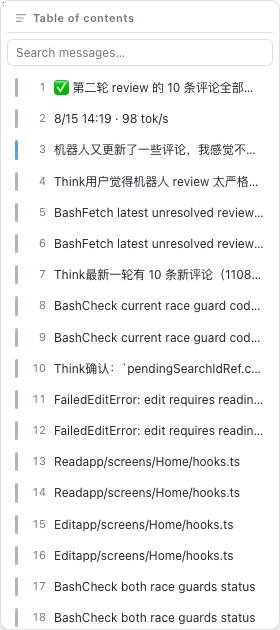
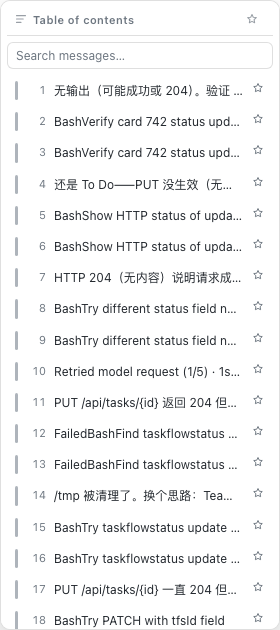
feat: message bookmarks; docs zh/en/es
- star/bookmark messages in outline, persisted in localStorage
- starred-only filter toggle in outline header
- README zh/en/es: document bookmarks; add Feedback section

diff --git a/src/client/TocBar.tsx b/src/client/TocBar.tsx
@@ -71,6 +71,14 @@ const STYLE = `
   border-radius:6px; outline:none; }
 .dsh-toc-search:focus { border-color:var(--toc-accent); }
 .dsh-toc-search::placeholder { color:var(--toc-muted); }
+.dsh-toc-star-toggle { display:inline-flex; align-items:center; gap:2px; padding:2px 5px; border:none;
+  background:transparent; color:var(--toc-muted); cursor:pointer; font-size:11px; border-radius:5px; }
+.dsh-toc-star-toggle:hover { background:var(--toc-hover); }
+.dsh-toc-star-toggle.active { color:var(--toc-accent); }
+.dsh-toc-star { flex:none; padding:1px; border:none; background:transparent; color:var(--toc-muted);
+  cursor:pointer; border-radius:4px; line-height:0; }
+.dsh-toc-star:hover { background:var(--toc-hover); }
+.dsh-toc-star.on { color:var(--toc-accent); }
 `
 
 let styleInjected = false
@@ -96,7 +104,33 @@ export function TocBar(props: { scrollEl: HTMLElement; items: TocItem[] }): Reac
   const [rect, setRect] = useState({ right: 0, top: 0, height: 0 })
   const [open, setOpen] = useState(false)
   const [query, setQuery] = useState('')
+  // 收藏：消息 key 集合（localStorage 持久化）。
+  const [starred, setStarred] = useState<Set<string>>(() => {
+    try {
+      const raw = window.localStorage.getItem('dsh-toc-starred')
+      return raw !== null ? new Set(JSON.parse(raw) as string[]) : new Set()
+    } catch {
+      return new Set()
+    }
+  })
+  // 过滤模式：全部 / 仅收藏。
+  const [starOnly, setStarOnly] = useState(false)
   const closeTimer = useRef(0)
+
+  /** 切换某条消息的收藏状态。 */
+  const toggleStar = useCallback((key: string): void => {
+    setStarred((prev) => {
+      const next = new Set(prev)
+      if (next.has(key)) next.delete(key)
+      else next.add(key)
+      try {
+        window.localStorage.setItem('dsh-toc-starred', JSON.stringify([...next]))
+      } catch {
+        /* 忽略 */
+      }
+      return next
+    })
+  }, [])
 
   // 跟踪定位：目录条停靠在 git 面板折叠箭头的左侧（聊天区内侧）；
   // 无箭头时回退到滚动容器右缘外侧。
@@ -177,12 +211,13 @@ export function TocBar(props: { scrollEl: HTMLElement; items: TocItem[] }): Reac
     }))
   }, [items, rect.height])
 
-  // 搜索过滤：按摘要文本包含匹配（大小写不敏感）。
+  // 搜索 + 收藏过滤：先按收藏，再按摘要文本包含匹配（大小写不敏感）。
   const filtered = useMemo(() => {
     const q = query.trim().toLowerCase()
-    if (q === '') return items
-    return items.filter((item) => item.text.toLowerCase().includes(q) || item.key.toLowerCase().includes(q))
-  }, [items, query])
+    const base = starOnly ? items.filter((item) => starred.has(item.key)) : items
+    if (q === '') return base
+    return base.filter((item) => item.text.toLowerCase().includes(q) || item.key.toLowerCase().includes(q))
+  }, [items, query, starred, starOnly])
 
   ensureStyle()
   if (rect.height === 0) return <div className="dsh-toc" style={{ display: 'none' }} />
@@ -213,11 +248,22 @@ export function TocBar(props: { scrollEl: HTMLElement; items: TocItem[] }): Reac
               <path d="M2 3.5h12M2 8h9M2 12.5h6" />
             </svg>
             {t('toc.title')}
+            <span className="spacer" style={{ flex: 1 }} />
+            <button type="button" className={`dsh-toc-star-toggle${starOnly ? ' active' : ''}`}
+              title={t('toc.starOnly')} onClick={() => setStarOnly((v) => !v)}>
+              <svg viewBox="0 0 16 16" width="12" height="12" fill={starOnly ? 'currentColor' : 'none'}
+                stroke="currentColor" strokeWidth="1.4" strokeLinejoin="round" aria-hidden="true">
+                <path d="M8 2l1.7 3.6 4 .5-2.9 2.8.7 4L8 11.2 4.5 12.9l.7-4L2.3 6.1l4-.5z" />
+              </svg>
+              <span>{starred.size > 0 ? String(starred.size) : ''}</span>
+            </button>
           </div>
           <input className="dsh-toc-search" value={query} placeholder={t('toc.search')}
             onChange={(event) => setQuery(event.target.value)} />
           {filtered.length === 0 ? (
-            <div className="dsh-toc-empty">{query.trim() === '' ? t('toc.empty') : t('toc.searchEmpty')}</div>
+            <div className="dsh-toc-empty">
+              {starOnly ? t('toc.starEmpty') : (query.trim() === '' ? t('toc.empty') : t('toc.searchEmpty'))}
+            </div>
           ) : (
             filtered.map((item, index) => (
               <div key={item.key}
@@ -226,6 +272,19 @@ export function TocBar(props: { scrollEl: HTMLElement; items: TocItem[] }): Reac
                 <span className={`bar ${DOT_COLOR[item.kind] ?? ''}`} />
                 <span className="num">{index + 1}</span>
                 <span className="text">{item.text || item.key}</span>
+                <button type="button"
+                  className={`dsh-toc-star${starred.has(item.key) ? ' on' : ''}`}
+                  title={starred.has(item.key) ? t('toc.starRemove') : t('toc.starAdd')}
+                  onClick={(event) => {
+                    event.stopPropagation()
+                    toggleStar(item.key)
+                  }}>
+                  <svg viewBox="0 0 16 16" width="12" height="12"
+                    fill={starred.has(item.key) ? 'currentColor' : 'none'}
+                    stroke="currentColor" strokeWidth="1.3" strokeLinejoin="round" aria-hidden="true">
+                    <path d="M8 2l1.7 3.6 4 .5-2.9 2.8.7 4L8 11.2 4.5 12.9l.7-4L2.3 6.1l4-.5z" />
+                  </svg>
+                </button>
               </div>
             ))
           )}

diff --git a/src/client/i18n.ts b/src/client/i18n.ts
@@ -15,6 +15,10 @@ const DICTS: Record<Lang, Dict> = {
     'toc.title': '对话目录',
     'toc.empty': '暂无对话消息',
     'toc.search': '搜索消息…',
+    'toc.starOnly': '仅看收藏',
+    'toc.starAdd': '收藏此消息',
+    'toc.starRemove': '取消收藏',
+    'toc.starEmpty': '暂无收藏消息',
     'toc.searchEmpty': '无匹配消息',
     'toc.jump': '跳转到此消息',
   },
@@ -22,6 +26,10 @@ const DICTS: Record<Lang, Dict> = {
     'toc.title': 'Table of contents',
     'toc.empty': 'No messages yet',
     'toc.search': 'Search messages…',
+    'toc.starOnly': 'Starred only',
+    'toc.starAdd': 'Star this message',
+    'toc.starRemove': 'Unstar',
+    'toc.starEmpty': 'No starred messages',
     'toc.searchEmpty': 'No matches',
     'toc.jump': 'Jump to this message',
   },
@@ -29,6 +37,10 @@ const DICTS: Record<Lang, Dict> = {
     'toc.title': 'Índice de la conversación',
     'toc.empty': 'Aún no hay mensajes',
     'toc.search': 'Buscar mensajes…',
+    'toc.starOnly': 'Solo destacados',
+    'toc.starAdd': 'Destacar mensaje',
+    'toc.starRemove': 'Quitar destacado',
+    'toc.starEmpty': 'Sin mensajes destacados',
     'toc.searchEmpty': 'Sin resultados',
     'toc.jump': 'Ir a este mensaje',
   },

diff --git a/README.en.md b/README.en.md
@@ -10,6 +10,7 @@ A chat table-of-contents plugin for the DSH Web GUI: a book-style outline bar on
 - **Current position highlight**: as you scroll, the mark for the current message is highlighted (synced between the bar and the popup list)
 - **Hover to expand**: move the mouse onto the bar to reveal the full outline (role color bar + number + message summary); it collapses automatically when the mouse leaves
 - **Outline search**: the expanded outline has a search box that filters messages by summary/key in real time (case-insensitive), making it easy to find and jump to historical messages
+- **Message bookmarks**: hover any outline entry and tap the star (⭐) to bookmark key messages (e.g. conclusions, API contracts); the outline header has a one-click "starred only" filter; bookmarks persist in browser localStorage across reloads
 - **Click to jump**: click any entry to smooth-scroll to the corresponding message
 - **Multilingual**: follows the DSH Web UI language (Chinese / English); Spanish browsers automatically get Spanish copy; defaults to Simplified Chinese
 - Light / dark theme follows the DSH Web GUI; coexists with dsh-git-panel, positions follow automatically
@@ -33,6 +34,10 @@ dsh plugin --profile web add dsh-chat-toc
 Restart `dsh web`, and after a few turns of conversation the outline bar appears on the right edge of the chat.
 
 > For local development, install via a link instead: `dsh plugin --profile web add link:/path/to/dsh-chat-toc`. After editing source, run `npm run build` and refresh the page to see changes.
+
+## Feedback
+
+Found a bug or have a feature request? Open an issue on [GitHub Issues](https://github.com/a792883583/dsh-chat-toc/issues) — your feedback helps us make the plugin better.
 
 ## License
 

diff --git a/README.es.md b/README.es.md
@@ -10,6 +10,7 @@ Un plugin de índice de conversación para la GUI web de DSH: una barra de esque
 - **Resaltado de posición actual**: al desplazarte, la marca del mensaje actual se resalta (sincronizado entre la barra y la lista desplegable)
 - **Expandir al pasar el ratón**: mueve el ratón a la barra para ver el índice completo (barra de color por rol + número + resumen del mensaje); se contrae automáticamente al salir
 - **Búsqueda en el índice**: el índice expandido tiene un buscador que filtra los mensajes por resumen/clave en tiempo real (sin distinción de mayúsculas), ideal para localizar y saltar a mensajes históricos
+- **Marcadores de mensajes**: pase el ratón por cualquier entrada del índice y toque la estrella (⭐) para marcar mensajes clave (p. ej. conclusiones, contratos API); la cabecera del índice tiene un filtro de un clic "solo destacados"; los marcadores persisten en localStorage del navegador
 - **Clic para ir al mensaje**: haz clic en cualquier entrada para desplazarte suavemente hasta el mensaje correspondiente
 - **Multilingüe**: sigue el idioma de la interfaz web de DSH (chino / inglés); los navegadores en español reciben automáticamente el texto en español; por defecto chino simplificado
 - Tema claro / oscuro siguiendo la GUI web de DSH; coexiste con dsh-git-panel, las posiciones se ajustan automáticamente
